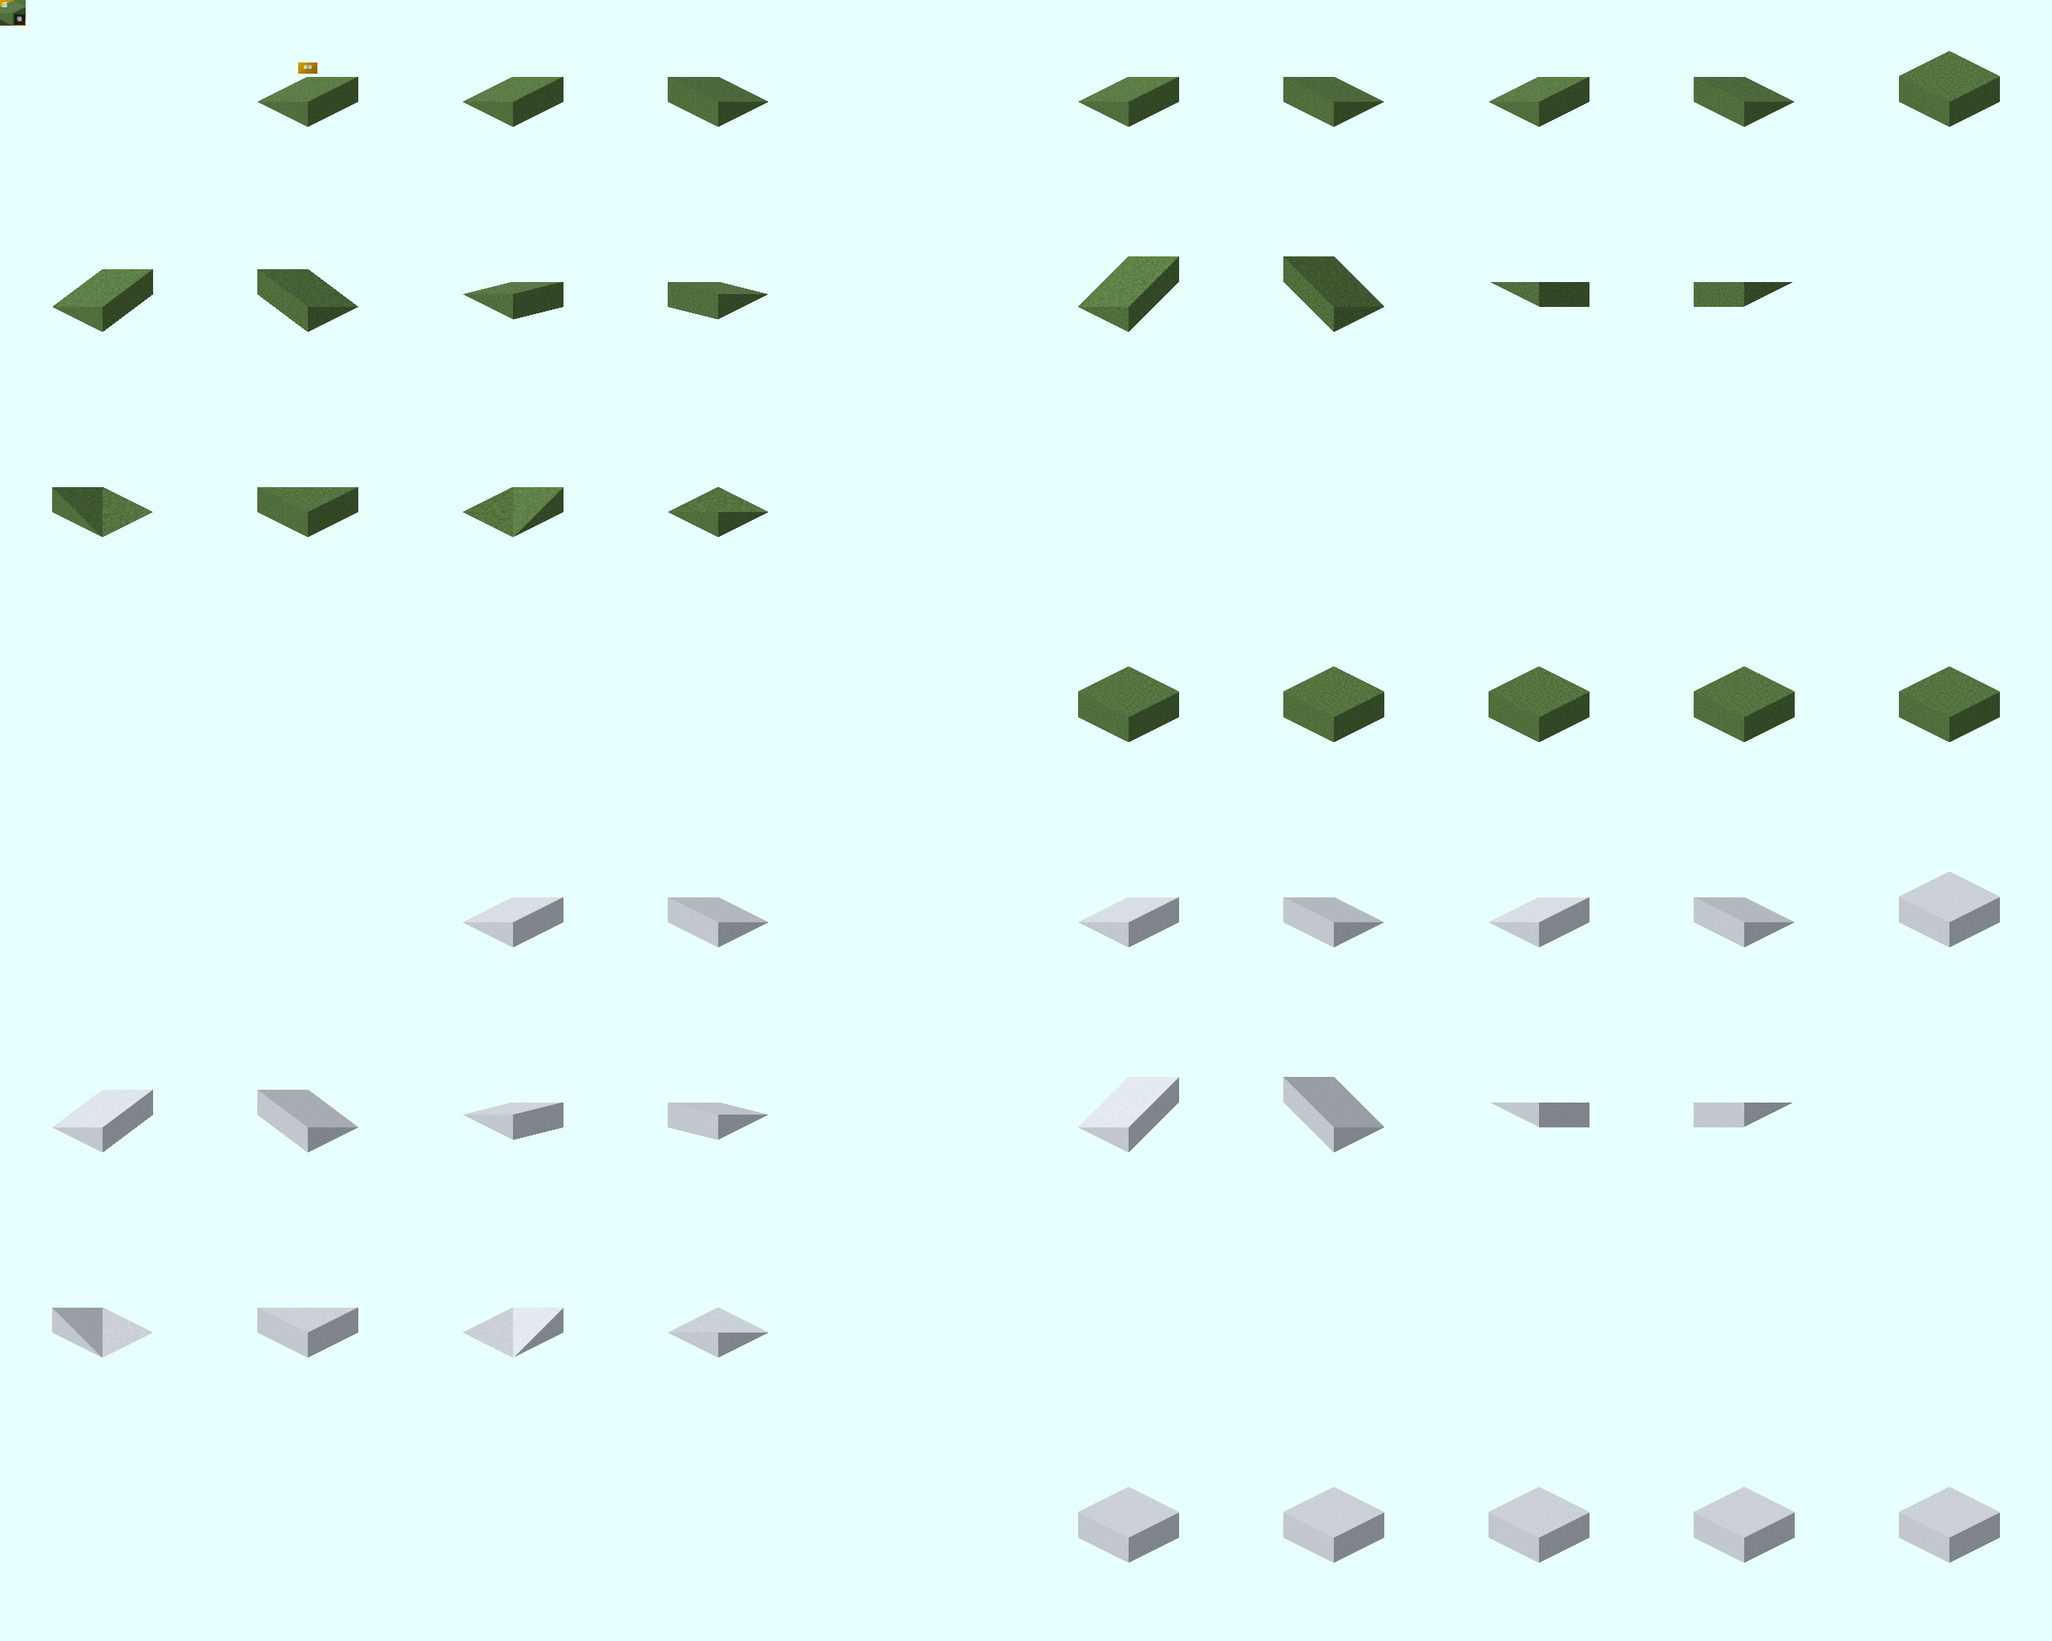
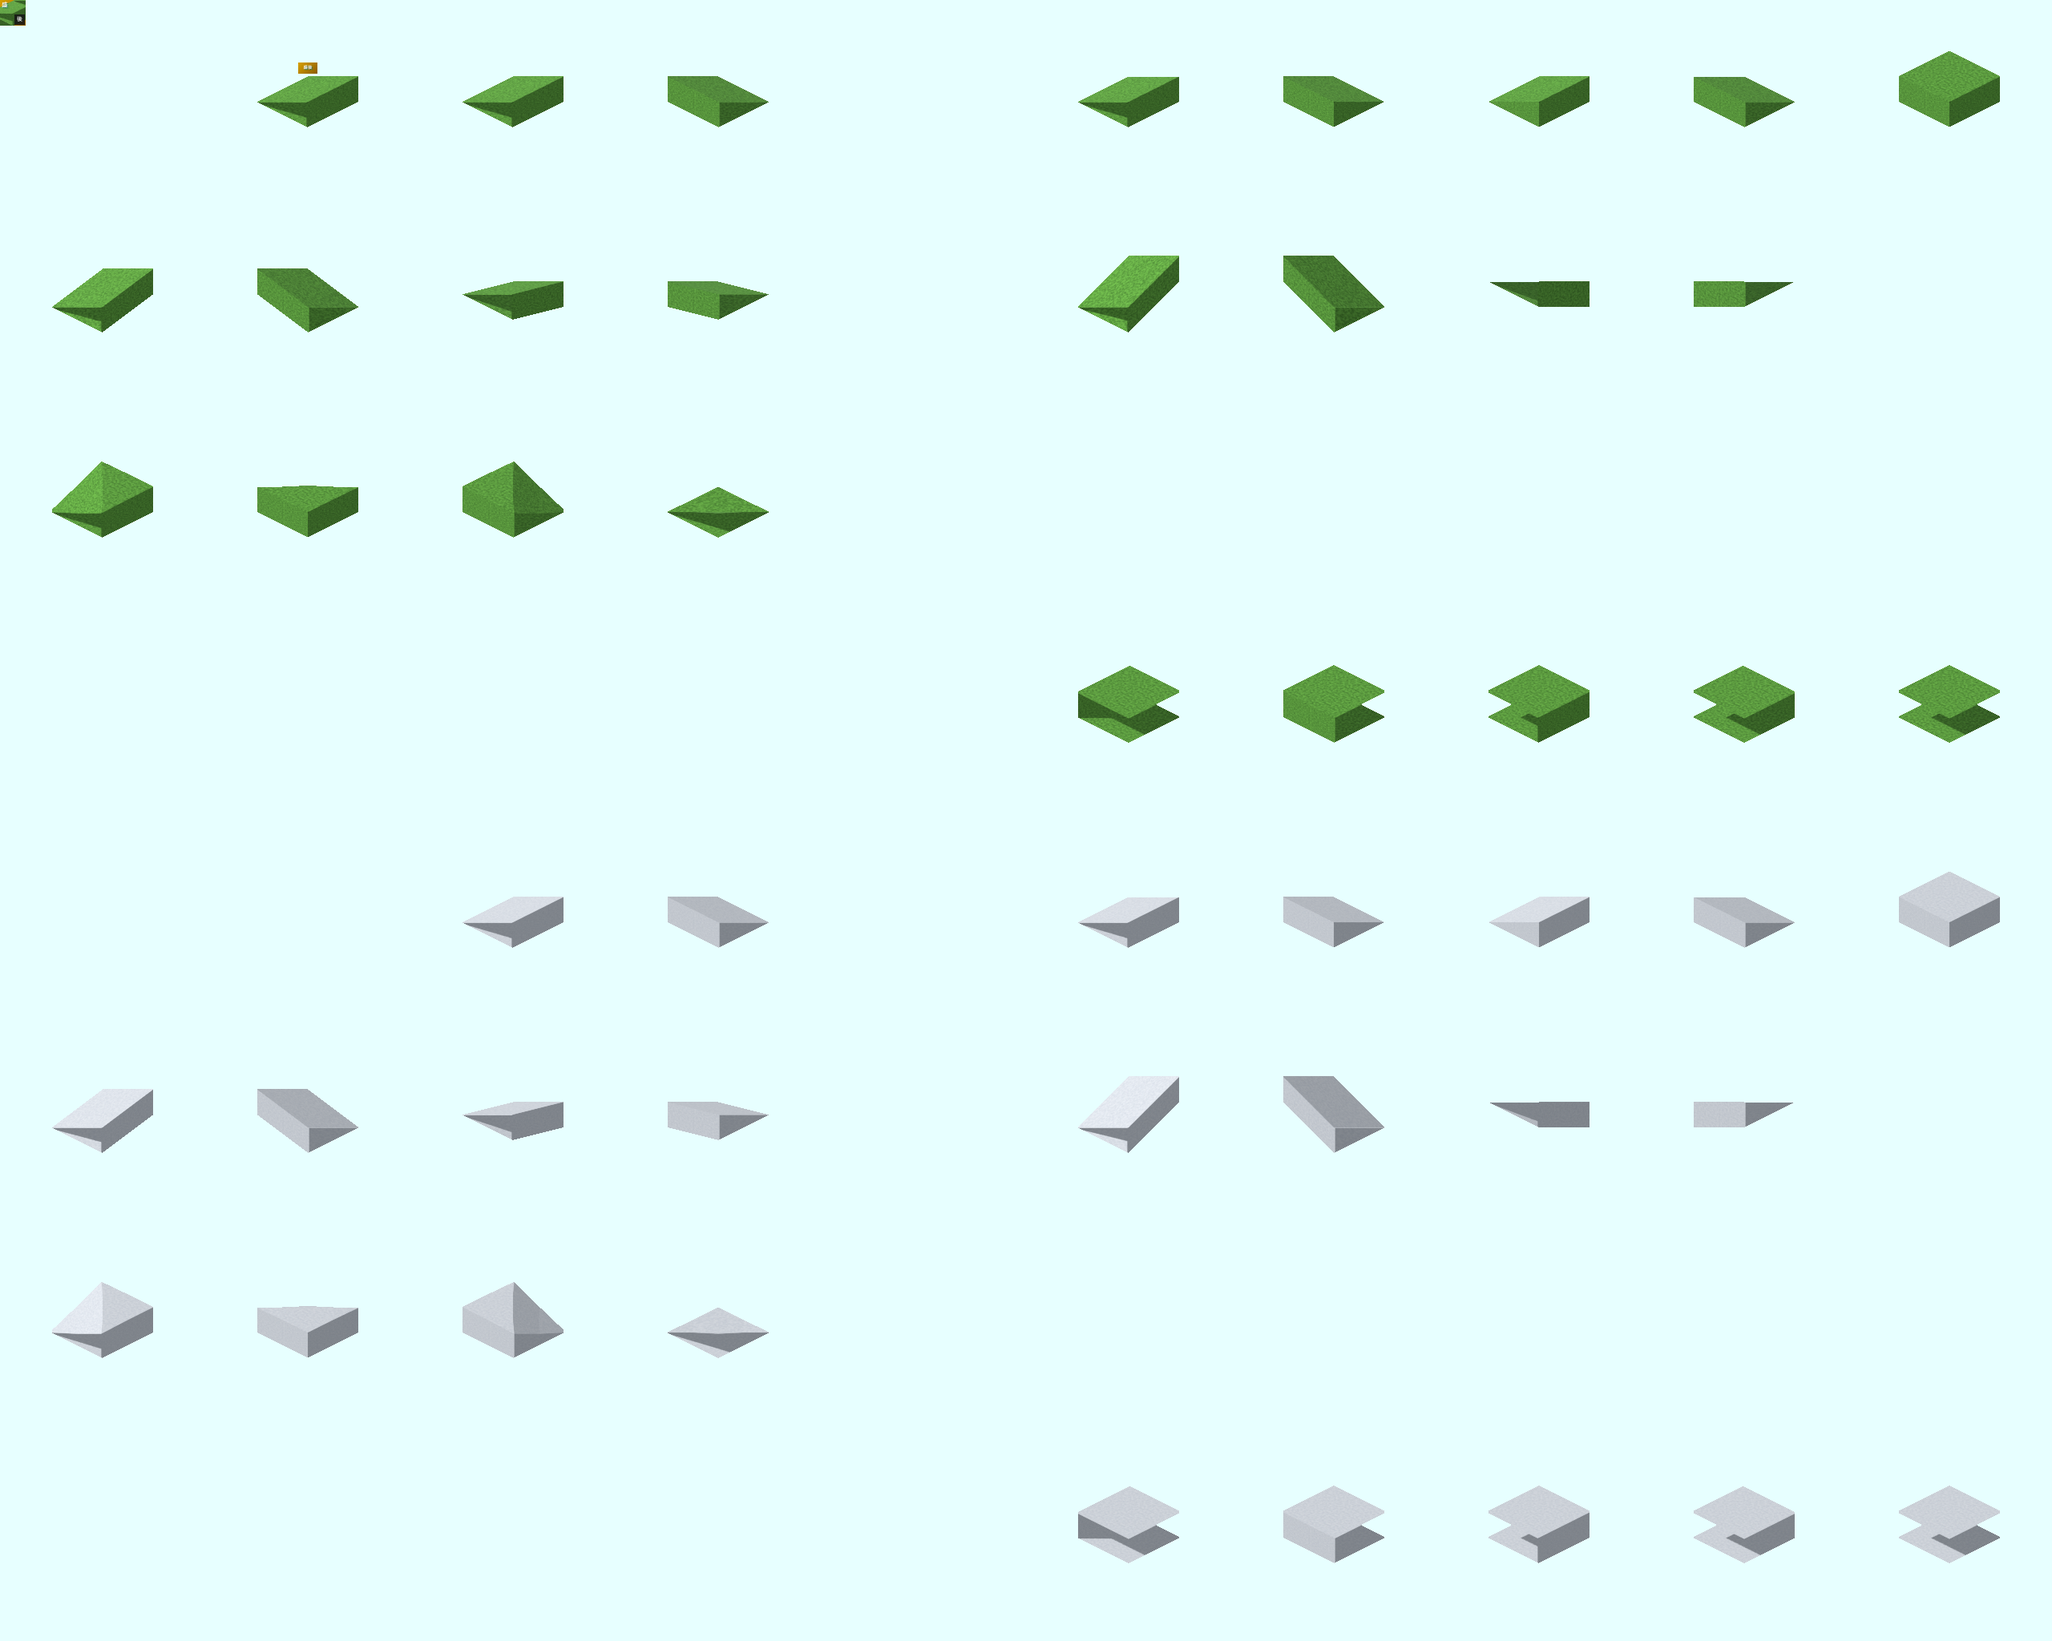
ami: match the embankment grass to the terrain, close the seams, and document it

diff --git a/tools/blender/sheetlib/sheetlib.py b/tools/blender/sheetlib/sheetlib.py
@@ -1211,6 +1211,7 @@ def _pier_sheet(sheet, datums, label="P", across=PIER_SIZE * PIER_ACROSS_K, anch
 
 # 盛土の way（AMI。#123）: 1 タイルの全面を楔にした法面。高い側の辺は高架と同じ高さ（ELEV_STEPS 段）で、反対の辺は地面。
 # 名前 → 高さの割合 f(x, y)（0 = 地面、1 = 高架の高さ）。側（side）は front（法面が手前の南・東を向き、高い側が北・西）と back（逆）
+EMB_OVERLAP = 0.25  # つながる辺で隣のタイルへ延ばす長さ（約 2px。持ち分の外は切られる）
 _EMB_SNOW_ROW = 4  # 雪の絵の行のずらし。dat を書く側の addons/ami/blender/ami_dat.py の EMBANKMENT_SNOW_ROWS と同じ値にする
 
 
@@ -1218,7 +1219,8 @@ def _emb_height(name, side):
     """盛土のセルの高さの割合の関数。直線・行き止まり・坂は直線の楔（front は北・西が高い）。
     曲がり（corner_<角>）は台の角: 外の角は、隣の 2 つの楔の高い辺が会う角だけが高い面（f_a + f_b − 1）、
     内の角は、その逆で低い角だけが地面の面（f_a + f_b）。どちらも 0〜1 で切り、斜めの稜線で折れる（iss の法面の八角形の角と同じ）。
-    front の内の角は se、back の内の角は nw で、ne・sw はどちらの側も外の角（front と back が会う台の角）。
+    front の内の角は se、back の内の角は nw。ne・sw は front と back が会う角で、盛り上げた台の角（外の角）にも
+    窪みの角（内の角）にもなるので、front は外の角、back は内の角を描く（台の角には front を、窪みの角には back を後から敷く）。
     T字・十字・1 タイルは上が平らな箱"""
     half = TILE / 2
     f = {"n": lambda x, y: (y + half) / TILE, "s": lambda x, y: (half - y) / TILE,
@@ -1230,7 +1232,7 @@ def _emb_height(name, side):
         return f[hi_ew]
     if name.startswith("corner_"):
         c = name[len("corner_"):]
-        inner = c == ("se" if side == "front" else "nw")
+        inner = c == "se" if side == "front" else c in ("nw", "ne", "sw")
         if inner:   # 低い角 c の向かいの 2 辺が高い
             a, b = (_OPPOSITE[c[0]], _OPPOSITE[c[1]])
             return lambda x, y: min(1.0, f[a](x, y) + f[b](x, y))
@@ -1238,9 +1240,10 @@ def _emb_height(name, side):
     return lambda x, y: 1.0
 
 
-def _emb_solid(hfun, top):
+def _emb_solid(hfun, top, exits=""):
     """高さ top * hfun(x, y) の面を上に持つ、タイル 1 枚の塊（頂点, 面）。面は 2×2 の升を中心の点で 4 つの三角に割るので、
-    タイルの 2 本の対角線が辺になり、角の面の稜線で正しく折れる。底は地面より少し下（坂の当てで沈まないように）"""
+    タイルの 2 本の対角線が辺になり、角の面の稜線で正しく折れる。底は地面より少し下（坂の当てで沈まないように）。
+    つながる辺（exits）には側面を作らない（隣のタイルの盛土が続くので見えず、作るとつなぎ目に細い線が出た）"""
     half, n = TILE / 2, 2
     step = TILE / n
     verts, faces, idx = [], [], {}
@@ -1249,25 +1252,29 @@ def _emb_solid(hfun, top):
         verts.append(Vector((x, y, z)))
         return len(verts) - 1
 
+    def at(x, y):   # つながる辺の点は外へ EMB_OVERLAP ずらす（隣のタイルの絵と重ねて、つなぎ目に 1px の透けが出ないように）
+        x += EMB_OVERLAP * ((x >= half - 1e-6 and "e" in exits) - (x <= -half + 1e-6 and "w" in exits))
+        y += EMB_OVERLAP * ((y >= half - 1e-6 and "n" in exits) - (y <= -half + 1e-6 and "s" in exits))
+        return v(x, y, top * min(1.0, max(0.0, hfun(x, y))))
+
     for i in range(n + 1):
         for j in range(n + 1):
-            x, y = -half + i * step, -half + j * step
-            idx[(i, j)] = v(x, y, top * hfun(x, y))
+            idx[(i, j)] = at(-half + i * step, -half + j * step)
     for i in range(n):
         for j in range(n):
-            x, y = -half + (i + 0.5) * step, -half + (j + 0.5) * step
-            c = v(x, y, top * hfun(x, y))
+            c = at(-half + (i + 0.5) * step, -half + (j + 0.5) * step)
             a, b, d, e = idx[(i, j)], idx[(i + 1, j)], idx[(i + 1, j + 1)], idx[(i, j + 1)]
             faces += [(a, b, c), (b, d, c), (d, e, c), (e, a, c)]   # 上から見て反時計回り
     # 外周（上から見て反時計回り）と、その真下の底の点
     ring = [(i, 0) for i in range(n)] + [(n, j) for j in range(n)] + [(i, n) for i in range(n, 0, -1)] + \
            [(0, j) for j in range(n, 0, -1)]
+    side_of = "s" * n + "e" * n + "n" * n + "w" * n   # 外周の辺 k がタイルのどの辺か
     bottom = -0.05
     low = [v(verts[idx[k]].x, verts[idx[k]].y, bottom) for k in ring]
     for k in range(len(ring)):
         t0, t1 = idx[ring[k]], idx[ring[(k + 1) % len(ring)]]
         b0, b1 = low[k], low[(k + 1) % len(ring)]
-        if verts[t0].z - bottom > 1e-6 or verts[t1].z - bottom > 1e-6:
+        if side_of[k] not in exits and (verts[t0].z - bottom > 1e-6 or verts[t1].z - bottom > 1e-6):
             faces.append((b0, b1, t1, t0))   # 外を向く側面
     faces.append(tuple(reversed(low)))   # 底（下を向く）
     return verts, faces
@@ -1307,14 +1314,15 @@ def embankment_sheet(sheet, side, label="盛", mat_skin=None, snow_skin=None):
         with named_materials(skin):
             for (r, c), (name, slope) in _emb_jobs().items():
                 clear_models()
-                ob = mesh_object("embankment", *_emb_solid(_emb_height(name, side), top), material(*EMBANKMENT_MAT))
+                ob = mesh_object("embankment", *_emb_solid(_emb_height(name, side), top, exits_of(name)),
+                                 material(*EMBANKMENT_MAT))
                 if slope:
                     apply_slope(ob, slope)
                 cells[(row0 + r, c)] = _pier_cell(f"{sheet}{tag}_{name}", slope)
     # アイコン（仮の絵。icons.py が描き直す）: 直線の楔。カーソルは南北の直線
     with named_materials(mat_skin):
         clear_models()
-        mesh_object("embankment", *_emb_solid(_emb_height("ns", side), top), material(*EMBANKMENT_MAT))
+        mesh_object("embankment", *_emb_solid(_emb_height("ns", side), top, "ns"), material(*EMBANKMENT_MAT))
         cells[(0, 0)] = render_icon(sheet + "_icon", 0.5, shift=(-0.14, 0.2), label=label, style="tram")
     cells[(0, 1)] = cells[(0, 2)]
     make_sheet(cells, 2 * _EMB_SNOW_ROW, 10, os.path.join(SRC, sheet + ".png"))

diff --git a/addons/ami/blender/render.py b/addons/ami/blender/render.py
@@ -582,7 +582,7 @@ SHEETS[catalog.SIDEWALK] = lambda: R.sidewalk_sheet(catalog.SIDEWALK, label=SIDE
 
 # 盛土の way（#123）: 高架の脇の地面に敷く法面の楔（sheetlib の embankment_sheet）。法面は芝の土（2026-11-21、ユーザーの決定。#123）。
 # 芝は 2 色のまだら（EMBANKMENT_GRASS の暗い色・明るい色・細かさ）、雪の絵は雪のまだら
-EMBANKMENT_GRASS = ((0.07, 0.16, 0.03), (0.15, 0.30, 0.07), 30.0)
+EMBANKMENT_GRASS = ((0.086, 0.315, 0.03), (0.185, 0.59, 0.07), 30.0)  # ゲームの草地（画面で約 80,147,53）に合わせた
 EMBANKMENT_SNOW = ((0.80, 0.84, 0.90), (0.92, 0.95, 0.99), 30.0)
 _emb_skin = lambda nm, spec: {R.EMBANKMENT_MAT[0]: lambda: R.noisy_material(nm, spec[0], spec[1], scale=spec[2], rough=0.95)}
 for _name, _side in catalog.EMBANKMENTS.items():

diff --git a/addons/ami/release.py b/addons/ami/release.py
@@ -21,7 +21,7 @@ DIST = os.path.join(HERE, "dist")
 OUT = os.path.join(HERE, "work", "release")
 TEMPLATE = os.path.join(HERE, "release")
 THUMBNAIL = os.path.join(HERE, "docs", "thumbnail.png")
-KINDS = ("ami_rail", "ami_road", "ami_tram", "ami_extra")  # build.py の KINDS と同じ
+KINDS = ("ami_rail", "ami_road", "ami_tram", "ami_extra", "ami_scenery")  # build.py の KINDS と同じ
 
 
 def main():

diff --git a/addons/ami/ACCEPTANCE.md b/addons/ami/ACCEPTANCE.md
@@ -81,7 +81,7 @@ AMI の初版を「できた」と言うための条件。blender-poc の [ACCEP
 
 | # | 条件 | 状態 | 確かめ方 |
 |---|---|---|---|
-| 6-1 | 全部入りのまとめの pak と、種類ごとの pak がある | ○（`ami.pak`・`ami_rail.pak`・`ami_tram.pak`・`ami_road.pak`・`ami_extra.pak`。dat が無い種類の pak は、dat を足すと作られる） | `dist/` の中身  |
-| 6-2 | 値（費用・維持費・登場年）が README の一覧どおり | ○（今ある `ami_rail_ballast`・`ami_rail_concrete`・`ami_rail_ladder`・`ami_rail_slab`・道路 3 種・`ami_tram`。高架の 4 版・壁・橋脚の値と、橋・トンネルの値（費用 60000・維持費 1200・速さ 160）は仮で、README の各節に書いた。道路の基盤の版・高架・橋・トンネル・道路の壁・道路用の橋脚の値も仮で、README の「道路の壁・高架・橋脚・橋・トンネルの作り」に書いた） | `blender/ami_dat.py` の `VALUES` と README の表を突き合わせる 高速線: dat の値は地上 40000・800、高架 80000・1600、橋・トンネル 160000・3200、速さはどれも 480（2026-11-19）。 道路 3 種: dat の値は生活道路 5000・100・1900・40 km/h、一般道路 8000・200・1930・120 km/h、高速道路 20000・500・1990・360 km/h で、README の表どおり（2026-11-19）。 道路の壁・高架・橋（#22）: dat の値は README の「道路の壁・高架・橋脚・橋・トンネルの作り」の表どおり（高架は地上の 2 倍、橋・トンネルは 4 倍、壁と橋脚は線路と同じ。2026-11-19） 路面軌道: dat の値は 60 km/h・10000・200・1900 で README の表と同じ（2026-11-20） フローティング・ラダー軌道: dat の値は 360 km/h・35000・700・1990 で README の表と同じ（2026-11-21） |
+| 6-1 | 全部入りのまとめの pak と、種類ごとの pak がある | ○（`ami.pak`・`ami_rail.pak`・`ami_tram.pak`・`ami_road.pak`・`ami_extra.pak`。dat が無い種類の pak は、dat を足すと作られる）。景観の `ami_scenery.pak`（盛土の 2 dat。#123、2026-11-21） | `dist/` の中身  |
+| 6-2 | 値（費用・維持費・登場年）が README の一覧どおり | ○（今ある `ami_rail_ballast`・`ami_rail_concrete`・`ami_rail_ladder`・`ami_rail_slab`・道路 3 種・`ami_tram`。高架の 4 版・壁・橋脚の値と、橋・トンネルの値（費用 60000・維持費 1200・速さ 160）は仮で、README の各節に書いた。道路の基盤の版・高架・橋・トンネル・道路の壁・道路用の橋脚の値も仮で、README の「道路の壁・高架・橋脚・橋・トンネルの作り」に書いた） | `blender/ami_dat.py` の `VALUES` と README の表を突き合わせる 盛土（#123）: dat の値は速さ 1・費用 1000・維持費 100・登場 1900（#110 の一覧。README の「盛土の作り」。2026-11-21）。 高速線: dat の値は地上 40000・800、高架 80000・1600、橋・トンネル 160000・3200、速さはどれも 480（2026-11-19）。 道路 3 種: dat の値は生活道路 5000・100・1900・40 km/h、一般道路 8000・200・1930・120 km/h、高速道路 20000・500・1990・360 km/h で、README の表どおり（2026-11-19）。 道路の壁・高架・橋（#22）: dat の値は README の「道路の壁・高架・橋脚・橋・トンネルの作り」の表どおり（高架は地上の 2 倍、橋・トンネルは 4 倍、壁と橋脚は線路と同じ。2026-11-19） 路面軌道: dat の値は 60 km/h・10000・200・1900 で README の表と同じ（2026-11-20） フローティング・ラダー軌道: dat の値は 360 km/h・35000・700・1990 で README の表と同じ（2026-11-21） |
 | 6-3 | 配る zip ができ、OTRP（`addon_check` の最新の `OTRPv64_3.exe`）で読み込み、全部の way・way-object・橋・トンネルを道具で敷ける | ○（`addon_check` の `OTRPv64_3.exe`、97 個。zip の中身の種類別の 4 つと、全部入りの `ami.pak` の両方。2026-11-21） | `python -X utf8 release.py --version <版> --paks <pak>... --extract` で zip を作って展開し、`PAKS` に展開した pak を渡して `GAME_DIR=<検証用のフォルダ> EXE=OTRPv64_3.exe PORT=<ポート> bash ingame/beta_check.sh`。先頭が `ok 97 items` で、ログに AMI の物の警告が無いこと（同じ物を二重に読むと `overlaid` の警告が出るので、ログを読めていることも分かる） |
 | 6-4 | 本家 125.0.1 で配る pak を読み込み、敷ける | ○（`ami-beta.1.zip` で、ユーザーが確かめた。2026-11-21、進捗管理を通して） | 手で確かめる（スクリプトが使えない）。1. 配る zip を本家 125.0.1 のフォルダの `addons/` に展開する（`addons/pak128/ami_*.pak` になる。古い AMI の pak があれば先に外す） 2. pak128・アドオンを読む設定で起動し、途中で止まらない 3. 鉄道・道路・路面軌道・船の道具のメニューに AMI のアイコンが並ぶ 4. 線路・道路の地上・高架・橋・トンネルと、壁・橋脚・歩道を 1 本ずつ敷き、絵が出る（分岐の絵・近い斜めは標準の絵になるのが正しい） 5. 確かめ終えたら展開した pak を外す |
